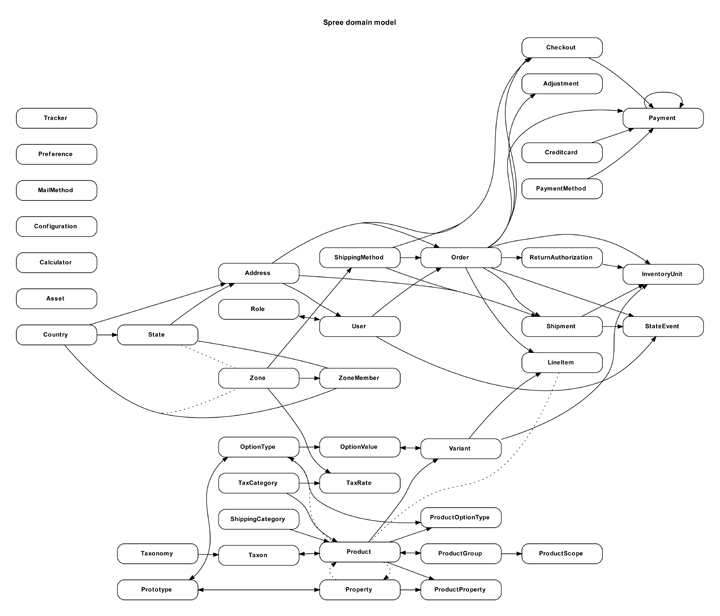
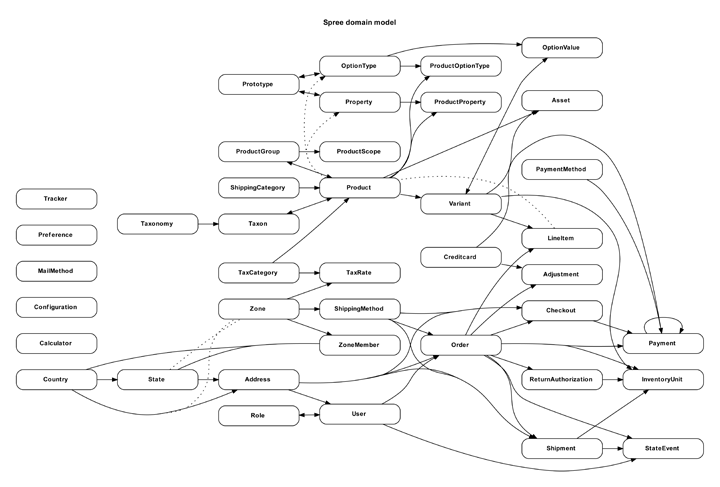
Updated example for Spree.

diff --git a/examples/applications/typo/options.rb b/examples/applications/typo/options.rb
@@ -1,1 +1,1 @@
-{ :orientation => :vertical, :disconnected => false, :inheritance => true }
+{ :inheritance => true }
